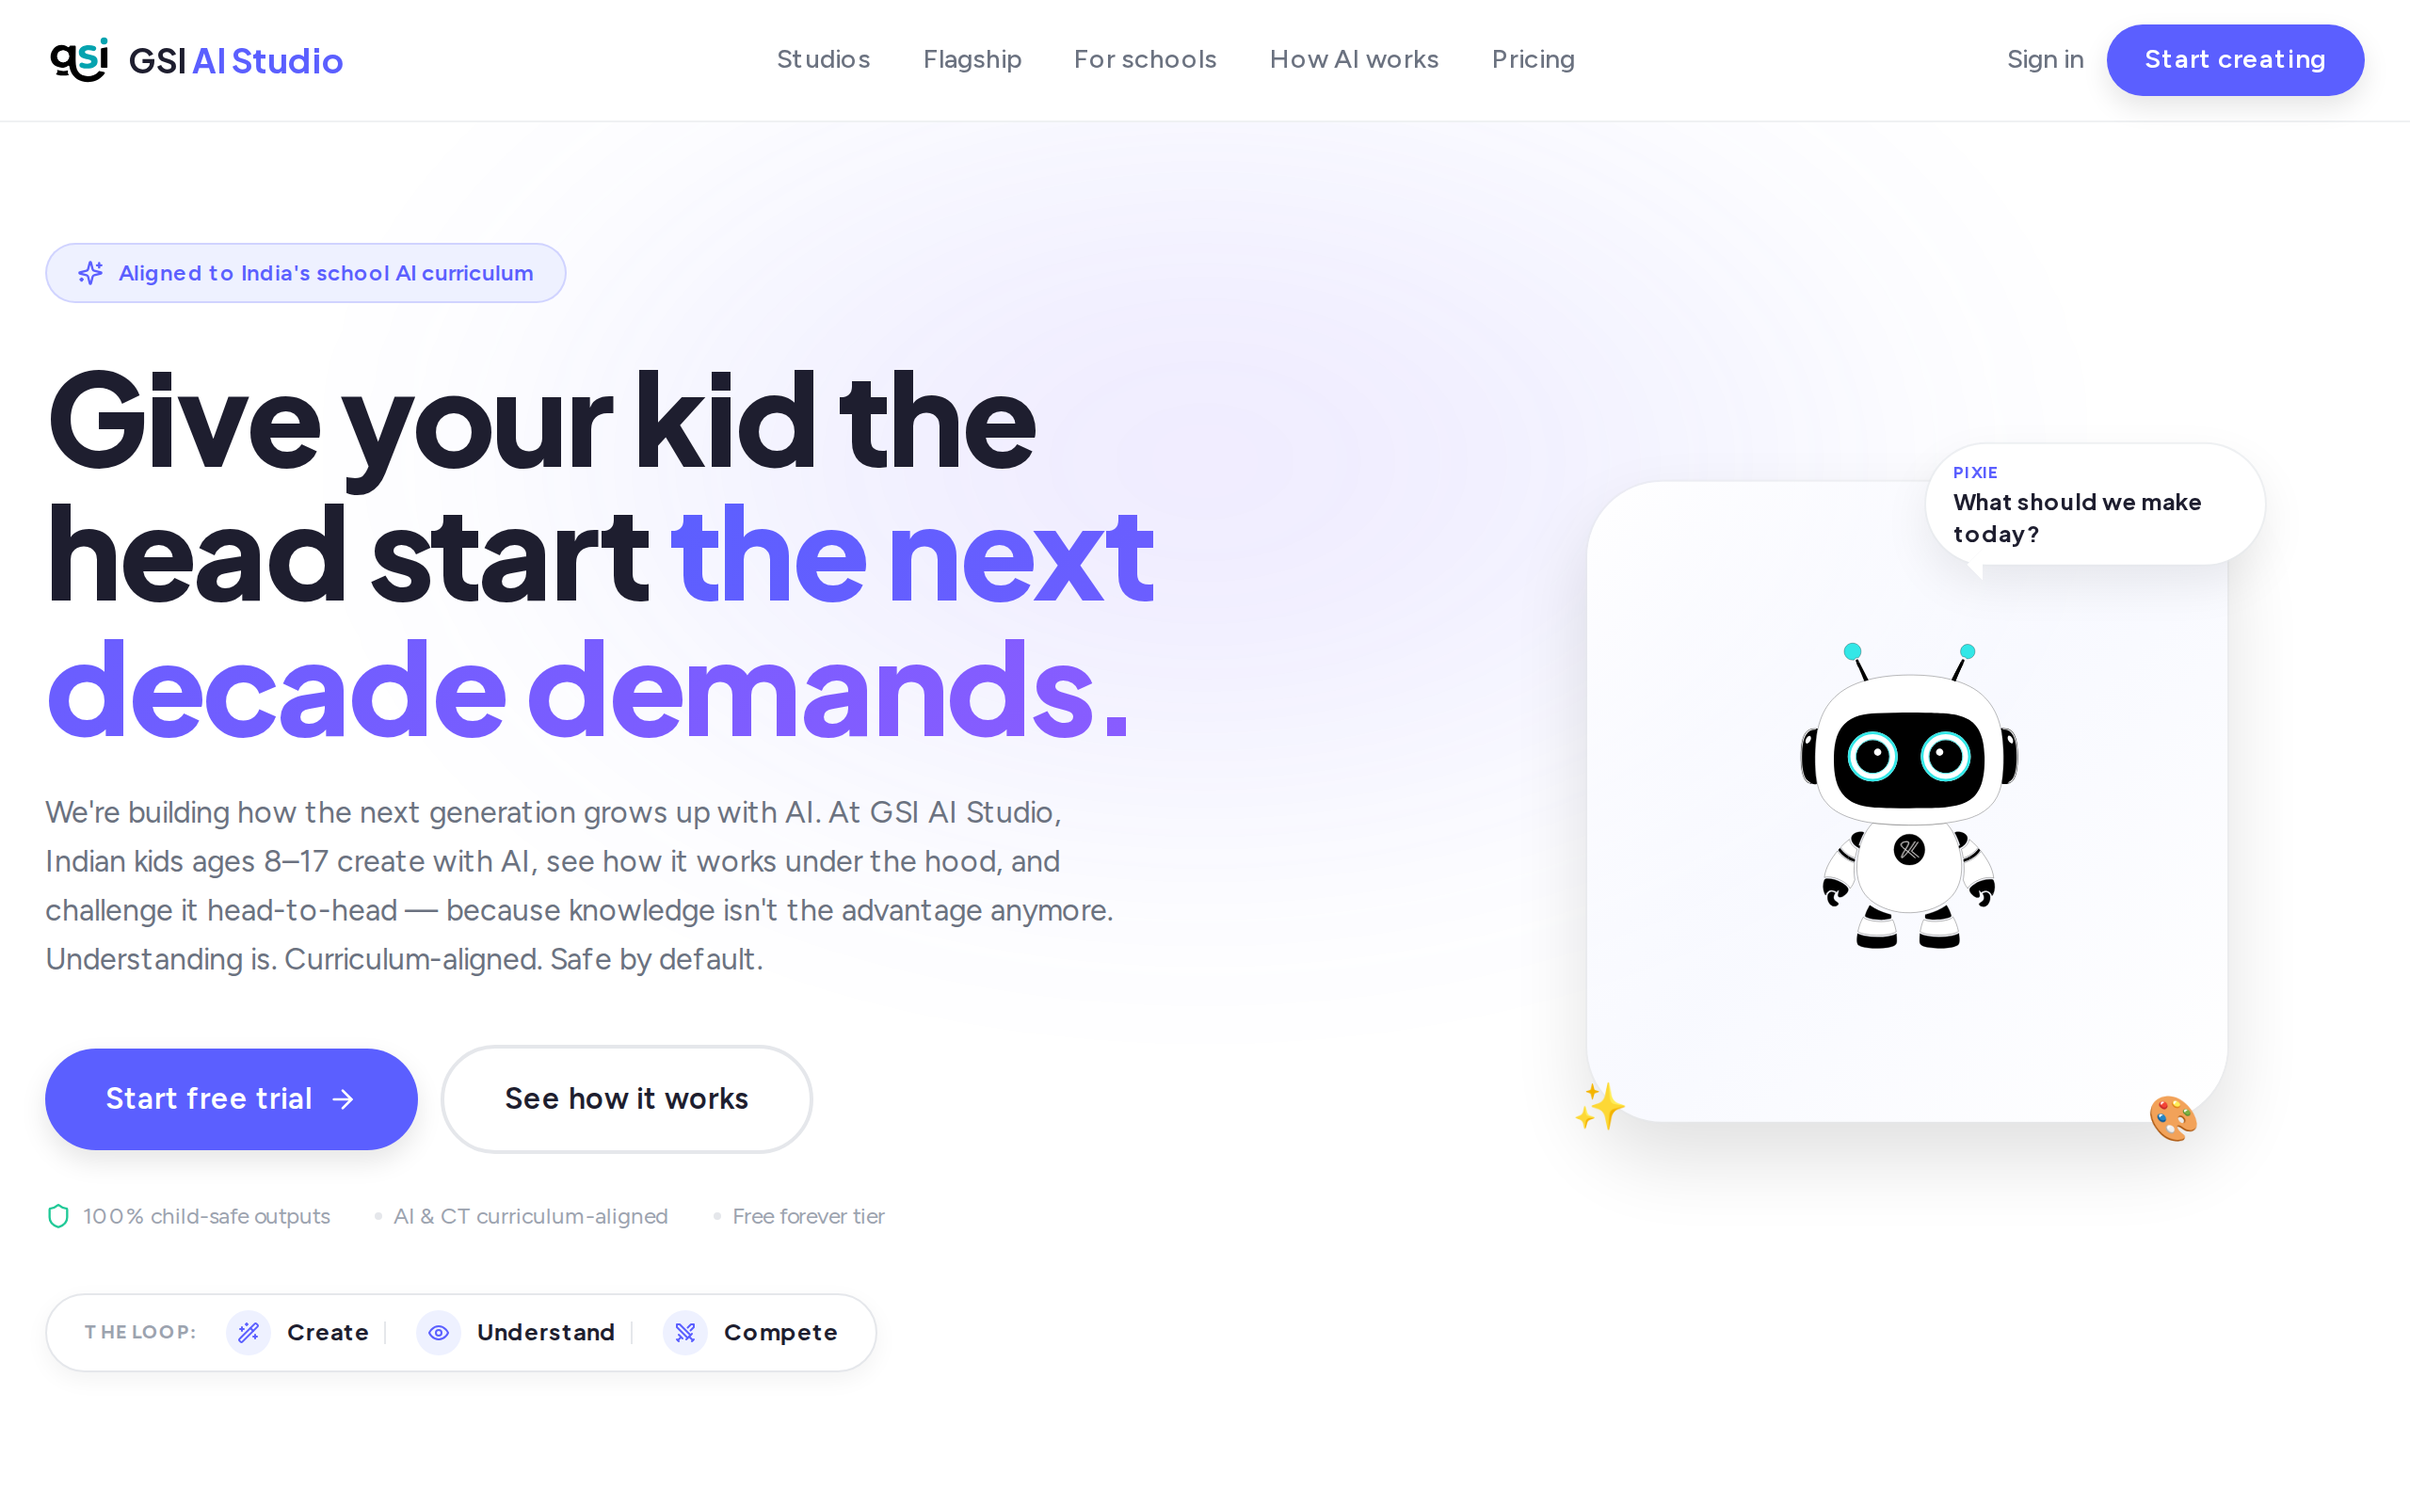
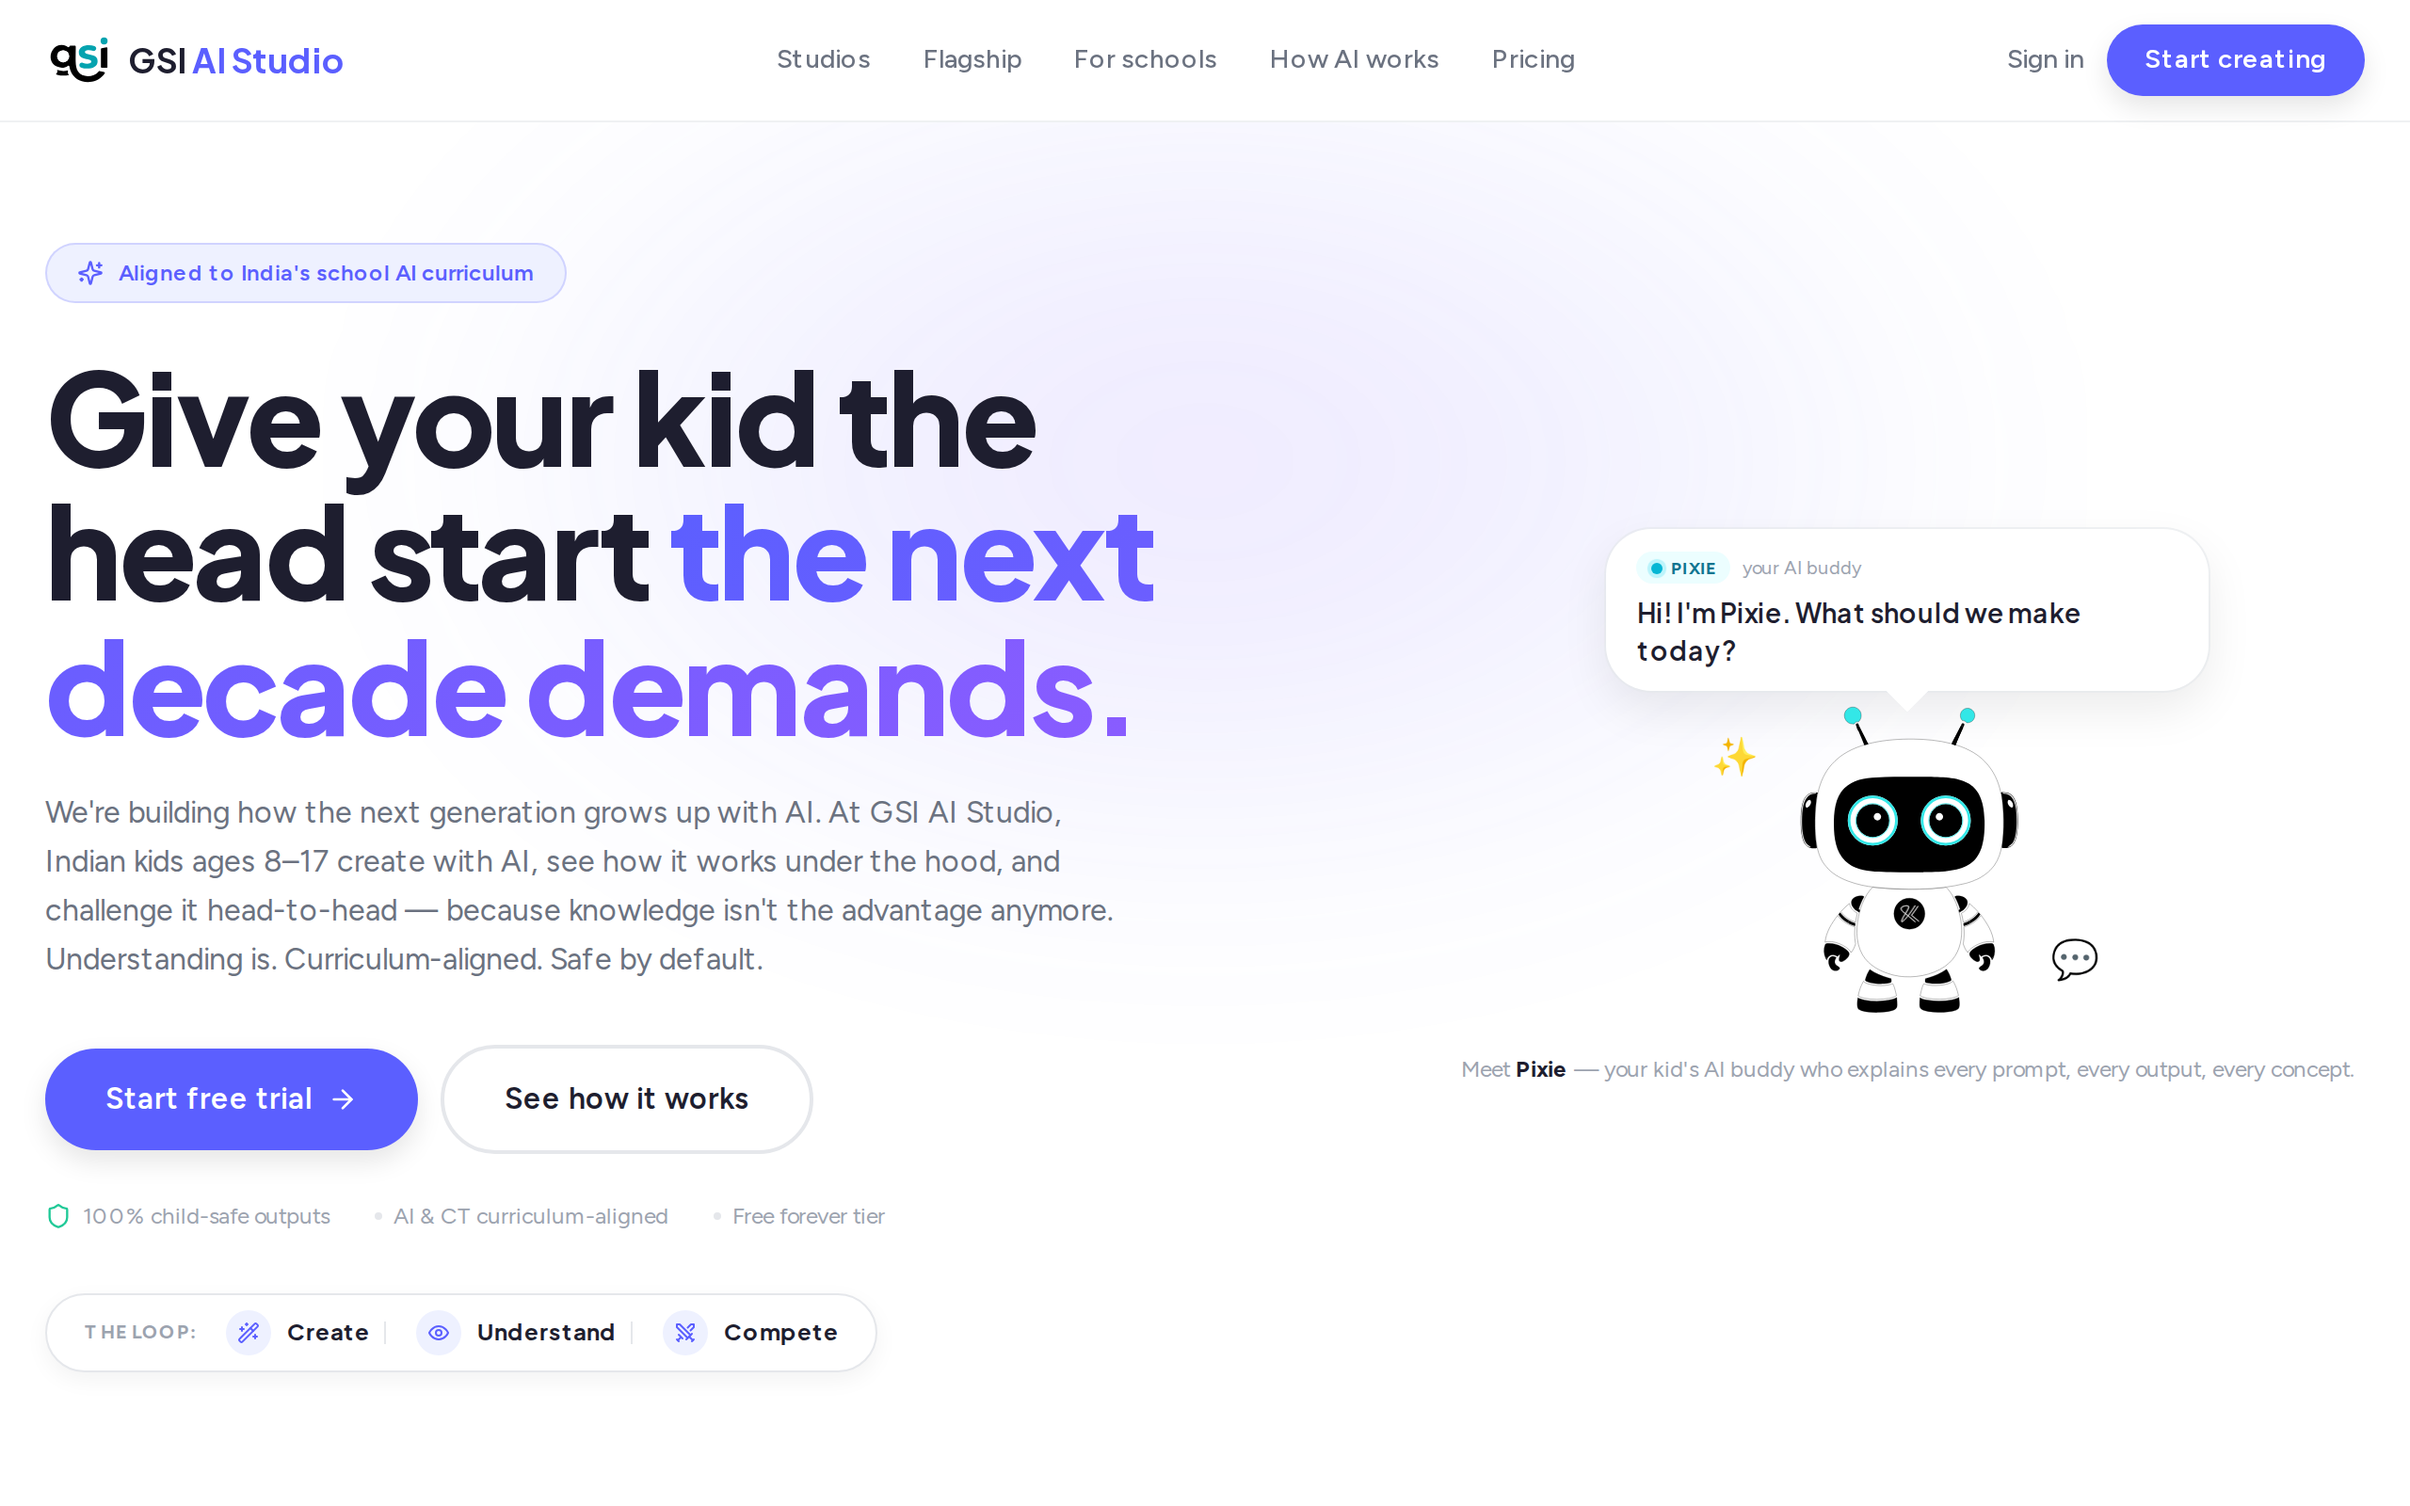
MARKETING-HERO: redesign Pixie hero — drop card, demonstrate her conversational role
The white floating card flattened Pixie and didn't communicate that she's
the kid's conversational AI buddy. Redesign so the visual itself tells
that story.

- Drop the rounded-[40px] white card. Pixie now sits free on the page
  with a soft cyan/violet halo behind her — feels alive, not boxed in.
- Replace the static speech bubble with a stack-positioned **cycling
  chat bubble** that rotates through 4 lines every 3.6s (AnimatePresence
  crossfade):
    1. "Hi! I'm Pixie. What should we make today?"
    2. "Ask me how AI made it — anytime."
    3. "Stuck on homework? I give hints, never answers."
    4. "Wanna beat the AI? Pick a challenge."
  The bubble has a pulsing PIXIE indicator dot + "your AI buddy" tag
  so the chatbot framing is unmistakable.
- Speech bubble sits ABOVE Pixie (not floating top-right), with a
  tail pointing down — feels like Pixie is talking up to the kid.
- Caption below: "Meet Pixie — your kid's AI buddy who explains every
  prompt, every output, every concept." Names the role explicitly.
- Sparkle accents kept (✨, swapped 🎨 for 💬 to lean into chat motif).

The hero now communicates Pixie's role through both motion (the cycling
lines) and copy (the caption + "your AI buddy" tag) — no longer just
a brand mascot pinned to a card.

diff --git a/components/marketing/Hero.tsx b/components/marketing/Hero.tsx
@@ -1,8 +1,9 @@
 'use client';
 
+import { useEffect, useState } from 'react';
 import Link from 'next/link';
 import { useSearchParams } from 'next/navigation';
-import { motion } from 'framer-motion';
+import { AnimatePresence, motion } from 'framer-motion';
 import { ArrowRight, Sparkles, Shield, Wand2, Eye, Swords } from 'lucide-react';
 import { MascotAvatar } from '@/components/mascot/MascotAvatar';
 import { getMascot } from '@/lib/mascots/roster';
@@ -149,65 +150,99 @@ export function Hero() {
   );
 }
 
-/* Brand mascot — focal hero visual. Renders the current brand-default mascot
-   (Pixie today) inside a soft floating card with a speech bubble + sparkle
-   accents. Mascot data comes from the roster, so swapping the brand default
-   is a one-line change in lib/mascots/roster.ts. */
+/* Brand mascot — focal hero visual. Pixie sits free on the page (no card)
+   with a stack of cycling chat bubbles that demonstrate her conversational
+   role: she's the kid's AI buddy who walks them through it. Mascot data
+   comes from the roster, so swapping the brand default is a one-line edit
+   in lib/mascots/roster.ts. */
+
+const PIXIE_LINES = [
+  "Hi! I'm Pixie. What should we make today?",
+  'Ask me how AI made it — anytime.',
+  'Stuck on homework? I give hints, never answers.',
+  'Wanna beat the AI? Pick a challenge.',
+];
+
 function BrandMascotHero() {
   const mascot = getMascot('pixie');
+  const [lineIndex, setLineIndex] = useState(0);
+
+  useEffect(() => {
+    const id = window.setInterval(() => {
+      setLineIndex((p) => (p + 1) % PIXIE_LINES.length);
+    }, 3600);
+    return () => window.clearInterval(id);
+  }, []);
 
   return (
     <motion.div
-      initial={{ opacity: 0, scale: 0.9 }}
+      initial={{ opacity: 0, scale: 0.92 }}
       animate={{ opacity: 1, scale: 1 }}
       transition={{ duration: 0.7, ease: 'easeOut' }}
-      className="relative mx-auto flex w-full max-w-sm items-center justify-center lg:max-w-none"
+      className="relative mx-auto flex w-full max-w-md flex-col items-center gap-4 lg:max-w-none"
     >
-      {/* Soft halo behind the mascot */}
+      {/* Soft halo glow behind Pixie */}
       <div
         aria-hidden
-        className="pointer-events-none absolute inset-0 -z-10 mx-auto h-[80%] w-[80%] rounded-full opacity-60 blur-3xl"
+        className="pointer-events-none absolute -top-6 left-1/2 -z-10 h-[300px] w-[420px] -translate-x-1/2 rounded-full opacity-70 blur-3xl"
         style={{
           background:
-            'radial-gradient(ellipse at center, rgba(138,92,255,0.30), rgba(91,95,255,0.15) 50%, transparent 75%)',
+            'radial-gradient(ellipse at center, rgba(91,179,255,0.35), rgba(138,92,255,0.18) 45%, transparent 75%)',
         }}
       />
 
-      {/* Mascot card */}
-      <motion.div
-        animate={{ y: [0, -8, 0] }}
-        transition={{ duration: 4.5, repeat: Infinity, ease: 'easeInOut' }}
-        className="relative flex aspect-square w-[260px] items-center justify-center rounded-[40px] bg-gradient-to-br from-white via-brand-soft/40 to-white shadow-elevated ring-1 ring-brand-border/50 sm:w-[300px] lg:w-[340px]"
-      >
-        <MascotAvatar id={mascot.id} size="2xl" ariaLabel={`${mascot.name} — GSI brand mascot`} />
+      {/* Cycling chat bubble — Pixie talking */}
+      <div className="relative flex min-h-[78px] w-full max-w-[320px] items-end justify-center">
+        <AnimatePresence mode="wait">
+          <motion.div
+            key={lineIndex}
+            initial={{ opacity: 0, y: 8, scale: 0.96 }}
+            animate={{ opacity: 1, y: 0, scale: 1 }}
+            exit={{ opacity: 0, y: -8, scale: 0.96 }}
+            transition={{ duration: 0.4, ease: 'easeOut' }}
+            className="relative w-full rounded-3xl bg-white px-4 py-3 shadow-card ring-1 ring-brand-border/60"
+          >
+            <div className="flex items-center gap-1.5">
+              <span className="flex items-center gap-1 rounded-full bg-cyan-50 px-2 py-0.5 text-[9px] font-bold uppercase tracking-wide text-cyan-700">
+                <span className="relative flex h-1.5 w-1.5">
+                  <span className="absolute inline-flex h-full w-full animate-ping rounded-full bg-cyan-400 opacity-75" />
+                  <span className="relative inline-flex h-1.5 w-1.5 rounded-full bg-cyan-500" />
+                </span>
+                {mascot.name}
+              </span>
+              <span className="text-[10px] text-brand-text-muted">your AI buddy</span>
+            </div>
+            <p className="mt-1.5 font-display text-[14px] font-semibold leading-snug text-brand-text">
+              {PIXIE_LINES[lineIndex]}
+            </p>
+            {/* Tail pointing down to Pixie */}
+            <div
+              aria-hidden
+              className="absolute -bottom-2 left-1/2 h-4 w-4 -translate-x-1/2 rotate-45 bg-white ring-1 ring-brand-border/60"
+              style={{ clipPath: 'polygon(100% 0, 100% 100%, 0 100%)' }}
+            />
+          </motion.div>
+        </AnimatePresence>
+      </div>
 
-        {/* Speech bubble — top-right */}
-        <motion.div
-          initial={{ opacity: 0, scale: 0.7, y: -6 }}
-          animate={{ opacity: 1, scale: 1, y: 0 }}
-          transition={{ duration: 0.5, delay: 0.6, type: 'spring', stiffness: 260, damping: 18 }}
-          className="absolute -right-3 -top-3 max-w-[180px] rounded-2xl bg-white px-3.5 py-2 shadow-card ring-1 ring-brand-border/60 sm:-right-5 sm:-top-5"
-        >
-          <div className="text-[9px] font-bold uppercase tracking-wide text-brand-primary">
-            {mascot.name}
-          </div>
-          <div className="mt-0.5 font-display text-[12px] font-bold leading-snug text-brand-text">
-            What should we make today?
-          </div>
-          {/* Tail */}
-          <div
-            aria-hidden
-            className="absolute -bottom-1.5 left-6 h-3 w-3 rotate-45 bg-white ring-1 ring-brand-border/60"
-            style={{ clipPath: 'polygon(0 0, 100% 100%, 0 100%)' }}
-          />
-        </motion.div>
+      {/* Pixie — sits free, no card, with subtle bob */}
+      <motion.div
+        animate={{ y: [0, -6, 0] }}
+        transition={{ duration: 4.5, repeat: Infinity, ease: 'easeInOut' }}
+        className="relative"
+      >
+        <MascotAvatar
+          id={mascot.id}
+          size="2xl"
+          ariaLabel={`${mascot.name} — GSI brand mascot`}
+        />
 
         {/* Sparkle decorations */}
         <motion.span
           aria-hidden
           animate={{ rotate: [0, 18, -10, 0], scale: [1, 1.15, 1] }}
           transition={{ duration: 3.5, repeat: Infinity, ease: 'easeInOut' }}
-          className="absolute -bottom-2 -left-2 text-2xl"
+          className="absolute -left-6 top-2 text-xl"
         >
           ✨
         </motion.span>
@@ -215,11 +250,16 @@ function BrandMascotHero() {
           aria-hidden
           animate={{ rotate: [0, -18, 10, 0], scale: [1, 1.15, 1] }}
           transition={{ duration: 4, repeat: Infinity, ease: 'easeInOut', delay: 1.2 }}
-          className="absolute -bottom-3 right-4 text-xl"
+          className="absolute -right-5 bottom-4 text-lg"
         >
-          🎨
+          💬
         </motion.span>
       </motion.div>
+
+      {/* Caption — names the role under the mascot */}
+      <p className="text-center text-caption text-brand-text-muted">
+        Meet <span className="font-bold text-brand-text">{mascot.name}</span> — your kid&apos;s AI buddy who explains every prompt, every output, every concept.
+      </p>
     </motion.div>
   );
 }
